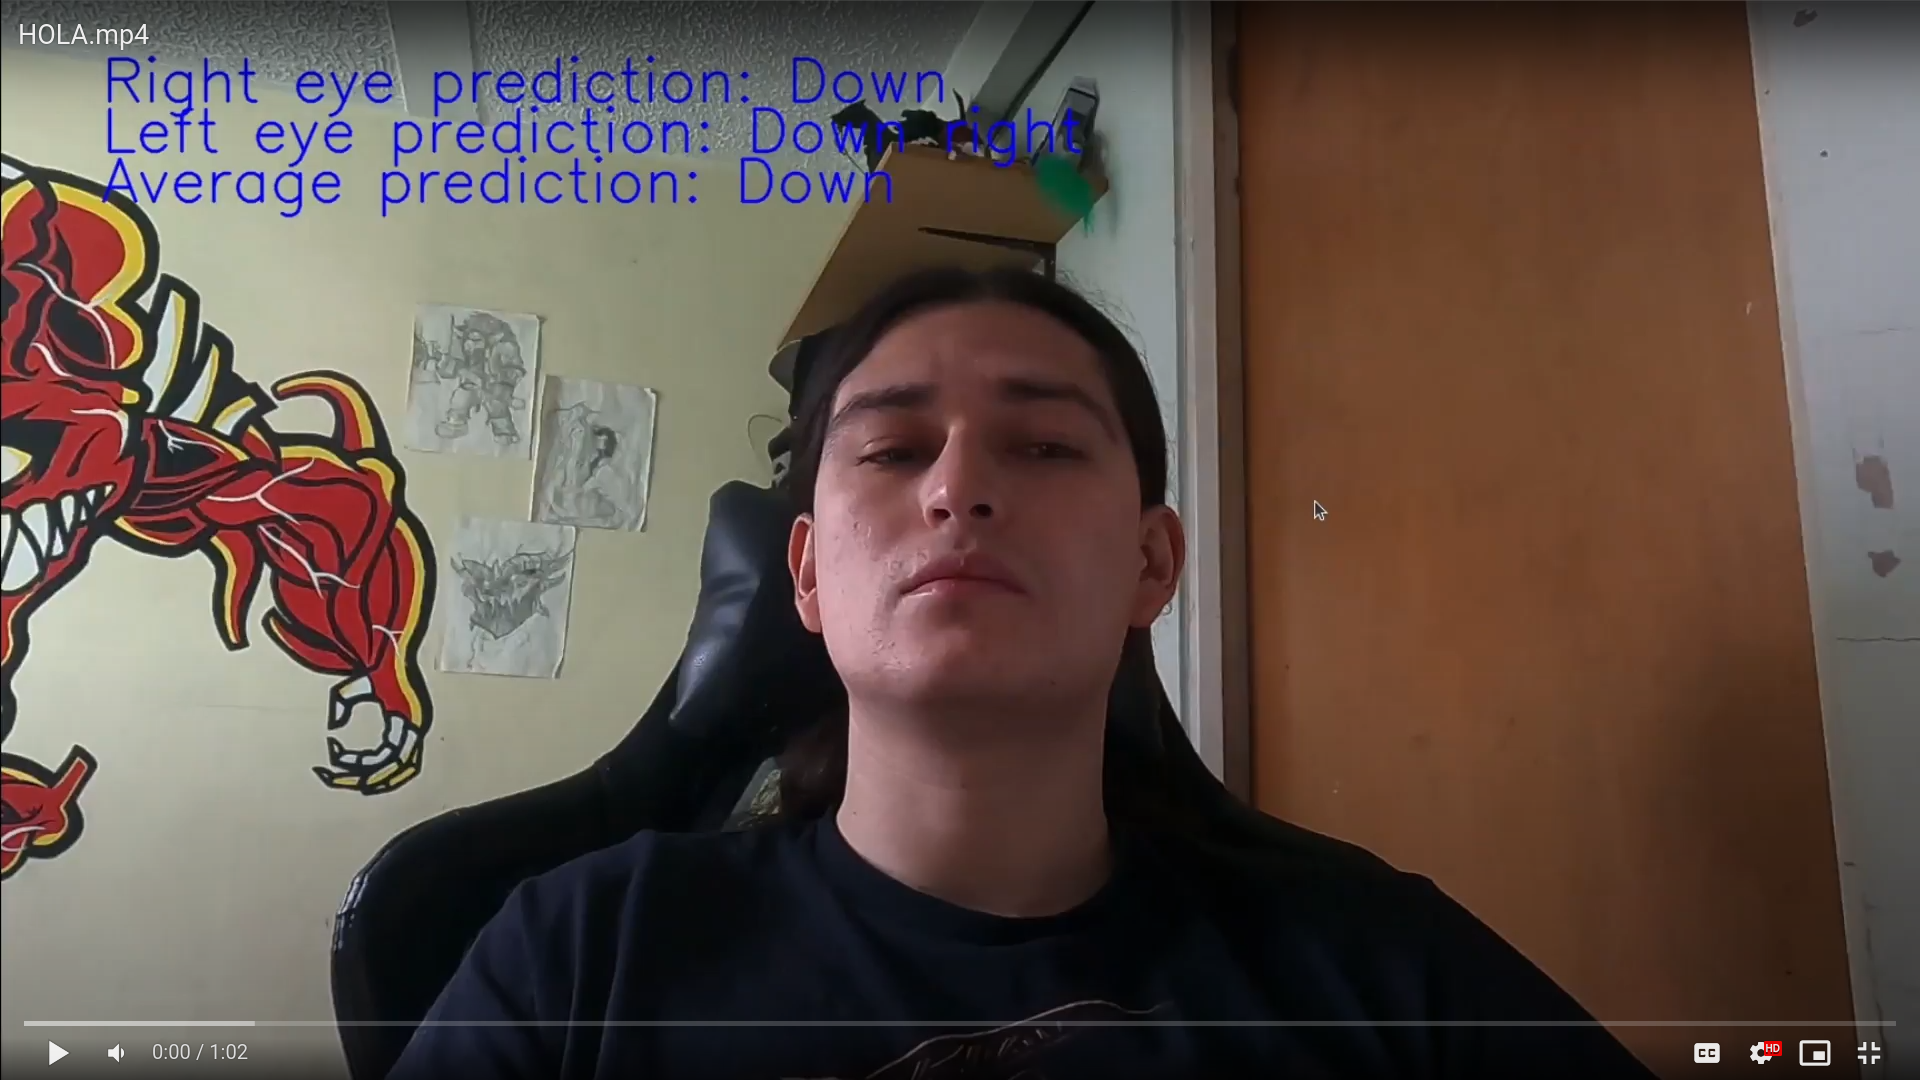
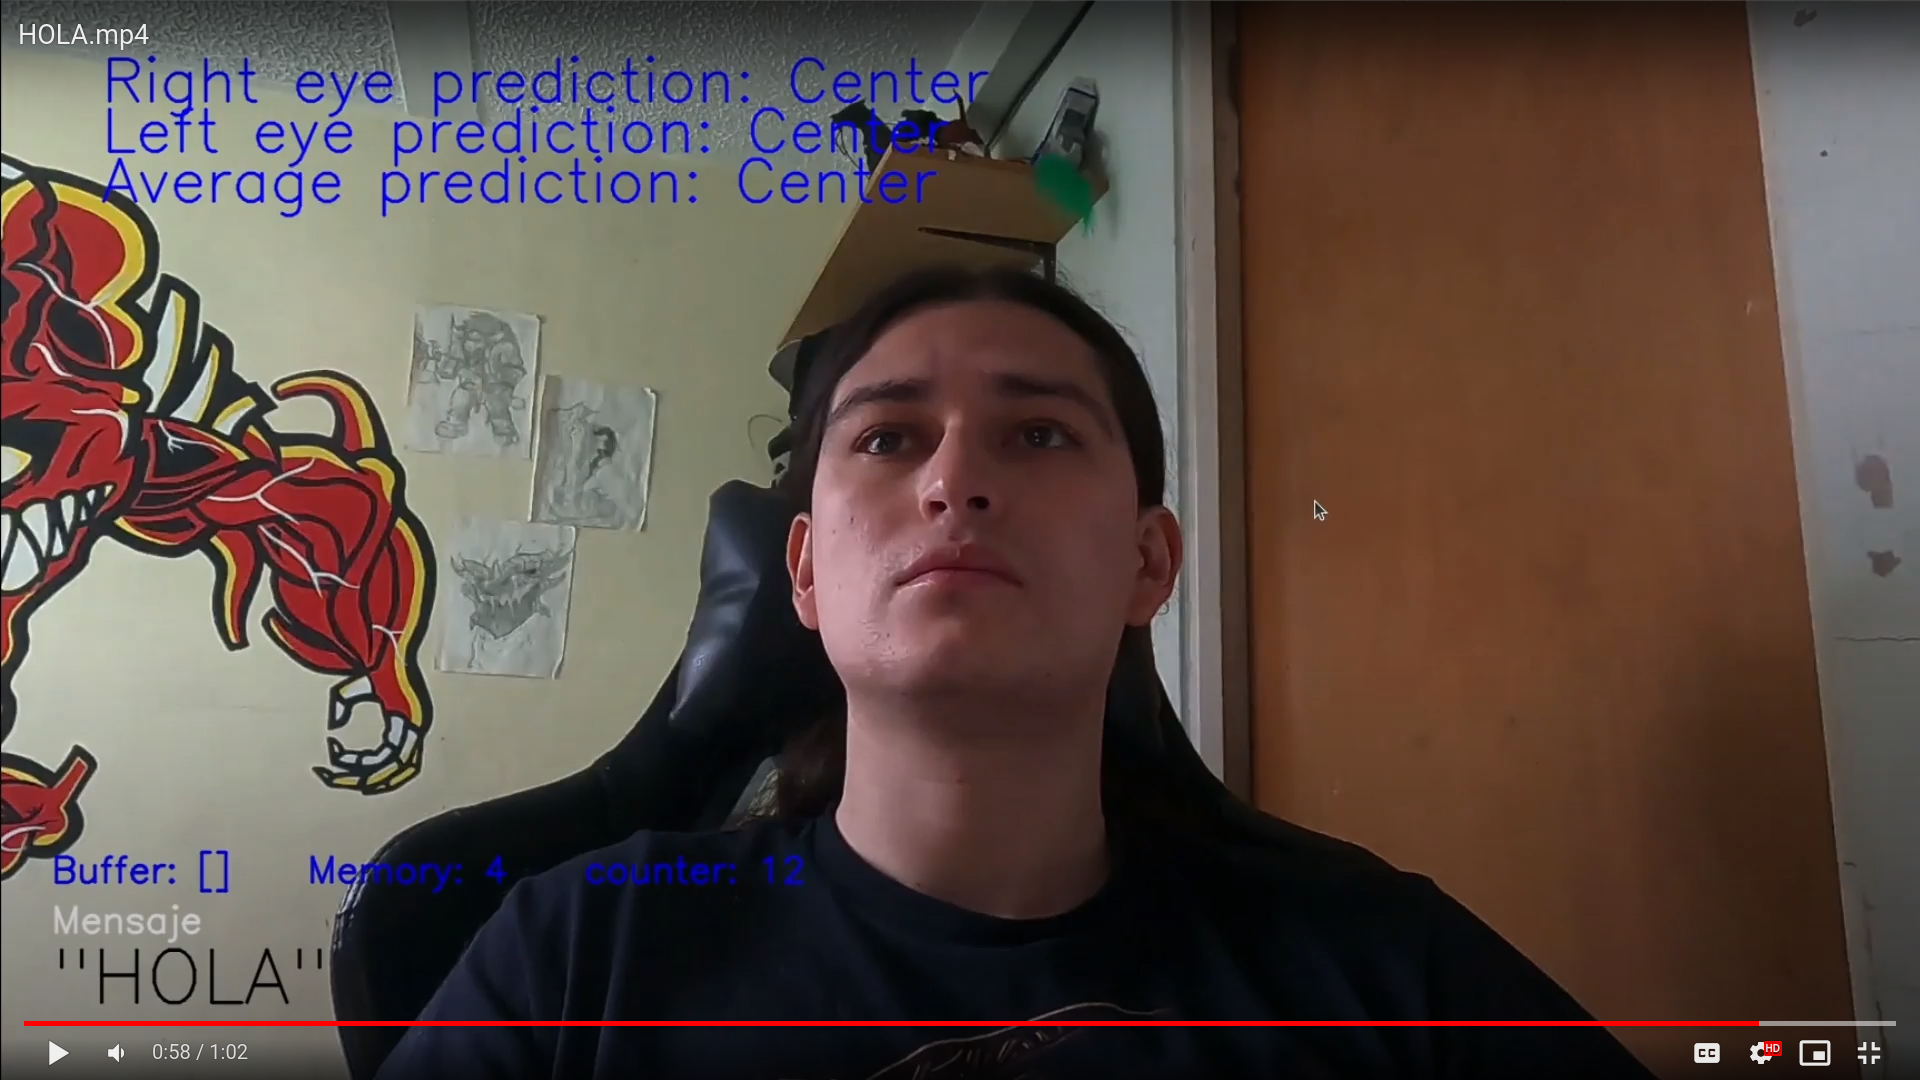
More fixes

diff --git a/README.md b/README.md
@@ -44,7 +44,7 @@ At the working interface, you can:
 - Press `s` to start/stop spelling
 - Press `q` to exit
 
-Once you press start, the interface increases to include some running data and the message you are spelling!:
+Once you press start, the interface increases to include some running data and the message you are spelling! (Click on the following image to see video test!):
 
 [![Video test](./resources/images/interface_2.png)](https://drive.google.com/file/d/132PIQtCAUbX43Us5XJNVW4IOhV3fo87b/view?usp=drive_link)
 
